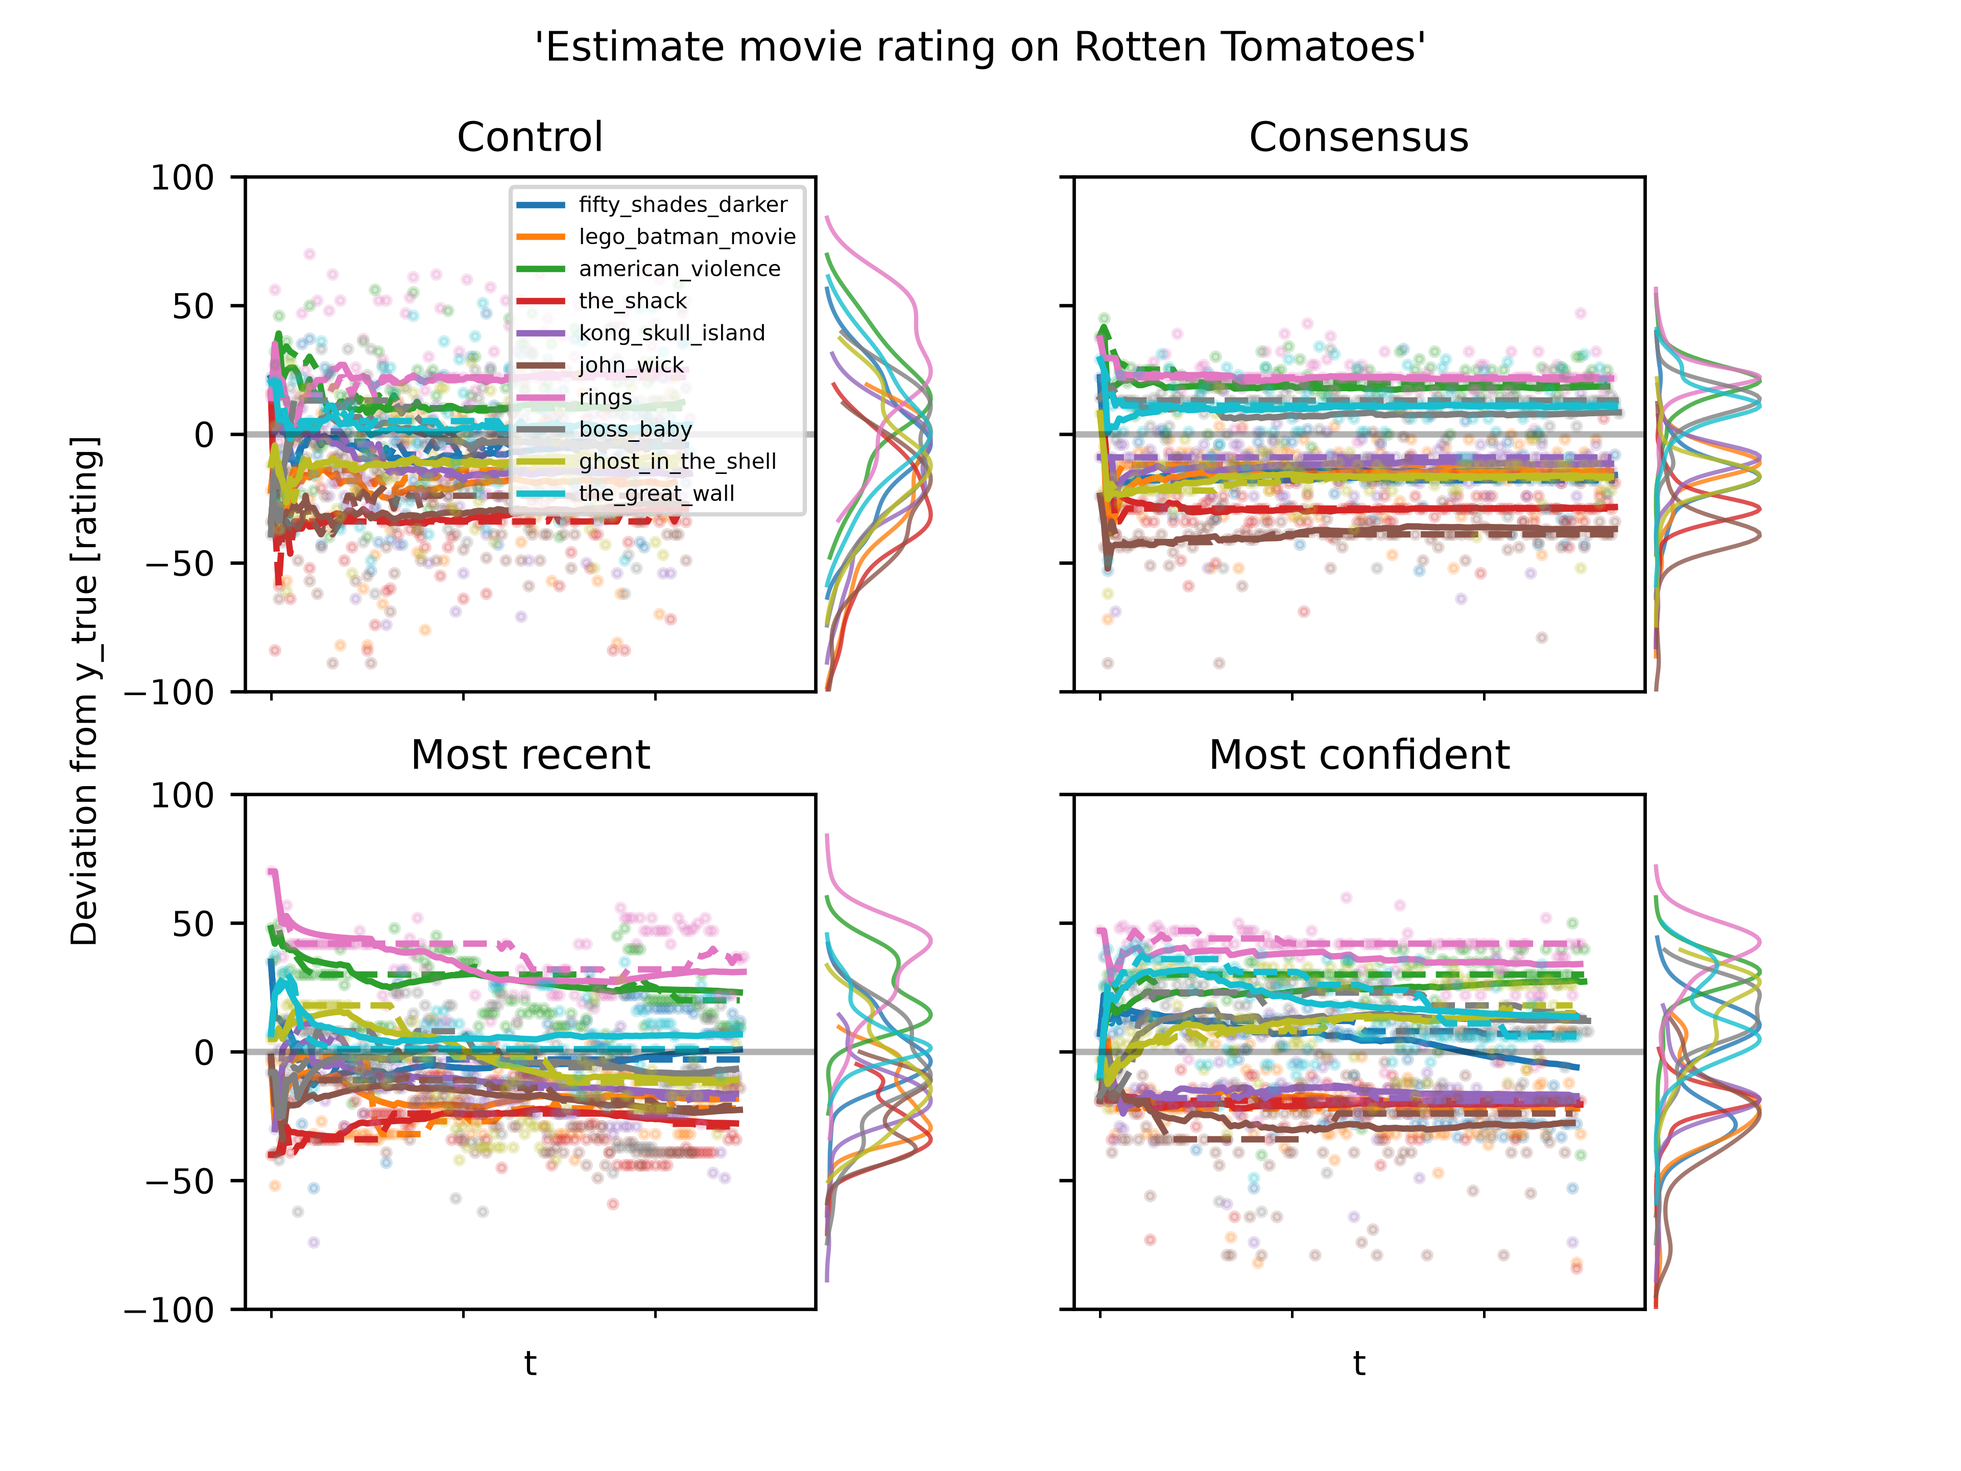
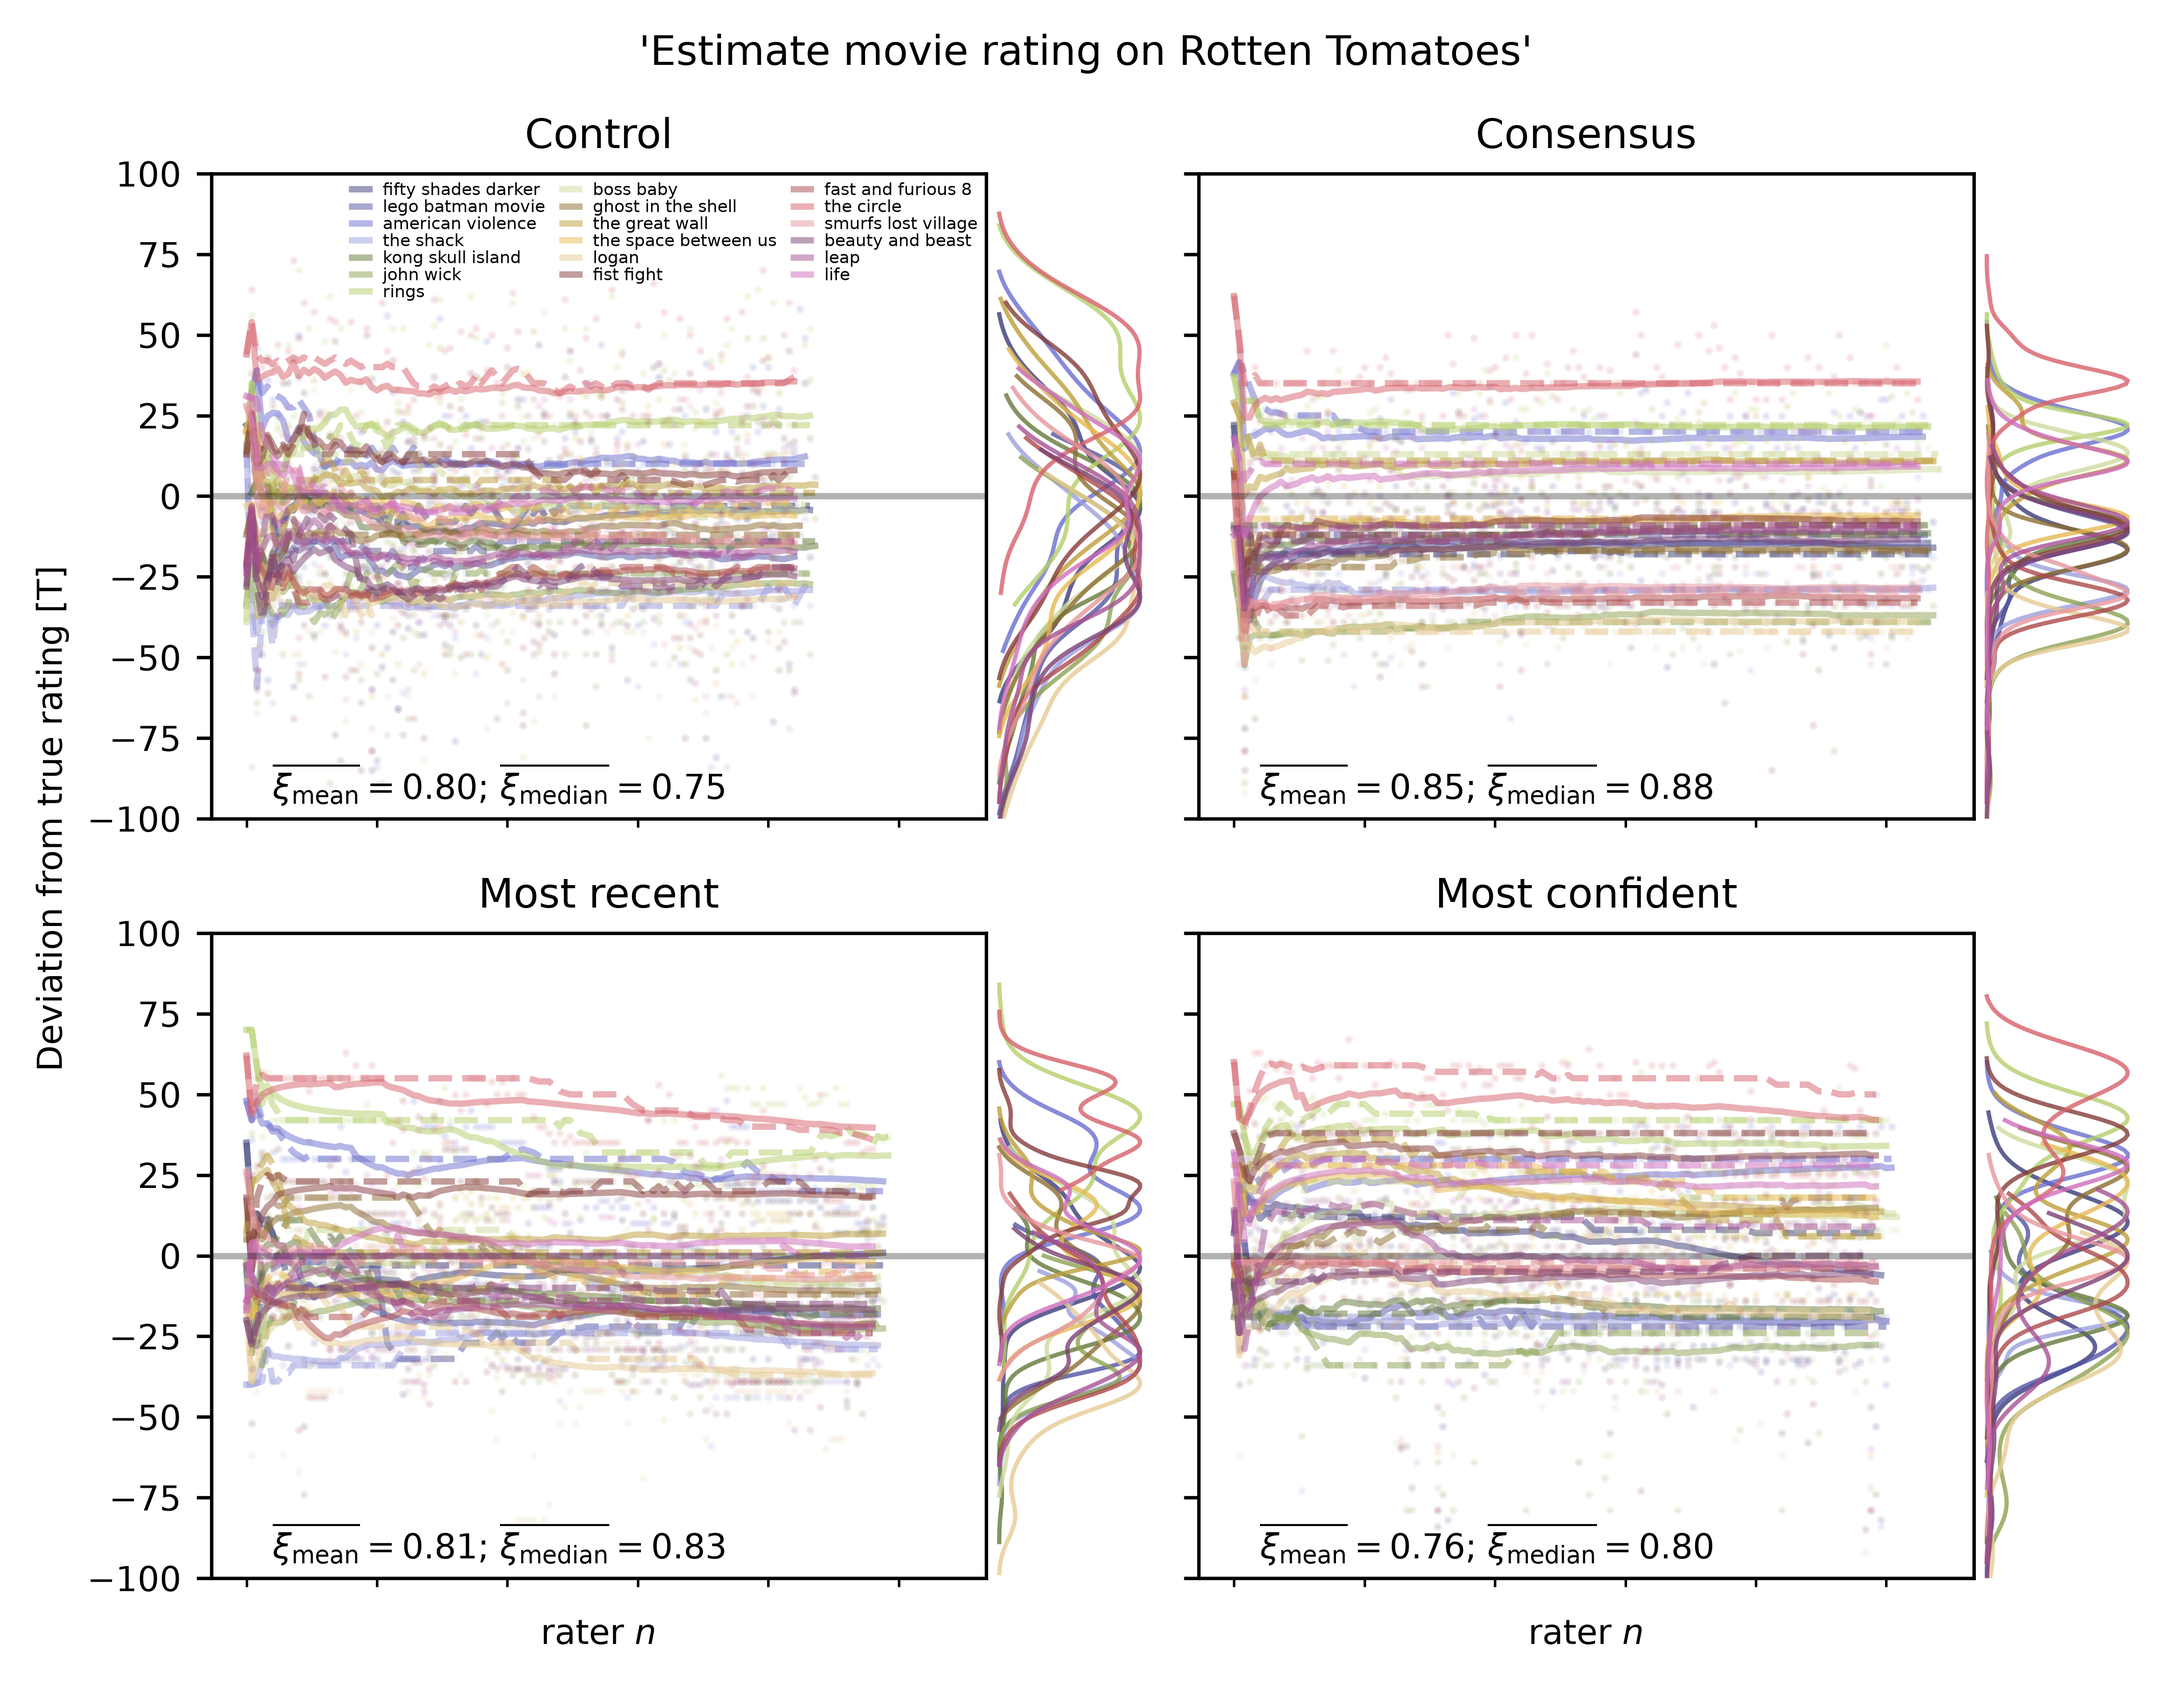
updated simoiu

Changed region(s): [[0.0, 0.0, 1.0, 0.9375], [0.0625, 0.875, 0.3438, 0.9688], [0.8125, 0.875, 0.8438, 0.9062]]

diff --git a/simoiu.py b/simoiu.py
@@ -64,23 +64,34 @@ def get_chain(task, cond):
     return chain 
 
 
-selected_tasks = [10140+l for l in range(20)][-7:-2] # age questions
-selected_tasks = [10740+l for l in range(20)]
-fig, axs = plt.subplots(2,2, sharex=True, sharey=True)
+# selected_tasks = [10140+l for l in range(20)][-7:-2] # age questions
+selected_tasks = [l for l in range(10740, 10760) if not l == 10752]
+fig, axs = plt.subplots(2,2, sharex=True, sharey=True, figsize=(18/2.54, 14/2.54))
+xis = []
 conds = ['Control', 'Consensus', 'Most recent','Most confident'] #answers.experimental_condition.unique()
 for ax, cond in zip(axs.flatten(), conds):
     n_peepsPerChainCond = n_peepsPerChain.loc[n_peepsPerChain["experimental_condition"]==cond]
-    cols = plt.get_cmap("tab10")
+    cols = plt.get_cmap("tab20b")
+    xis_med = []
+    xis_mean = []
     for ni, task in enumerate(selected_tasks):
         c = cols(ni)
         # taskname = tasks.loc[tasks.task_id==task]["prompt"].str.replace("How old is ", "").str.replace("?", "").iloc[0]
-        taskname = tasks.loc[tasks.task_id==task]["path_to_media"].str.replace("prediction_movie_rating/", "").str.replace(".mp4", "").iloc[0]
+        taskname = tasks.loc[tasks.task_id==task]["path_to_media"].str.replace("prediction_movie_rating/", "").str.replace(".mp4", "").str.replace("_", " ").iloc[0]
+
+        xi_mean = (abs(chain.answer.astype(float).mean()- chain.correct_answer.unique().astype(float))/chain.std_answer.unique())[0]
+        xis_mean.append(xi_mean)
+        xi_median = (abs(chain.answer.astype(float).median()- chain.correct_answer.unique().astype(float))/chain.std_answer.unique())[0]
+        xis_med.append(xi_median)
+        xis.append([cond, taskname, xi_mean, xi_median])
+
+        # taskname += fr" $\xi={xi:.1f}$" 
         chain = get_chain(task, cond)
-        chain["relanswer"].plot(ax=ax, label="_", color=c, alpha=0.2, lw=0, marker="o", markersize=2)
-        chain["rollMean"].plot(ax=ax, color=c, label=taskname)
-        chain["rollMedian"].plot(ax=ax, color=c, ls="--", label="_")
+        chain["relanswer"].plot(ax=ax, label="_", color=c, alpha=0.1, lw=0, marker="o", markersize=1)
+        chain["rollMean"].plot(ax=ax, color=c, label=taskname, alpha=0.5)
+        chain["rollMedian"].plot(ax=ax, color=c, ls="--", label="_", alpha=0.5)
         # --- right: histogram of language counts ---
-        y_grid = np.linspace(min(chain["relanswer"])*1.2, max(chain["relanswer"])*1.2, 100)
+        y_grid = np.linspace(min(chain["relanswer"].dropna())*1.2, max(chain["relanswer"].dropna())*1.2, 100)
         kde = gaussian_kde(chain["relanswer"].dropna())
         density = kde(y_grid)
         divider = make_axes_locatable(ax)
@@ -89,25 +100,39 @@ for ax, cond in zip(axs.flatten(), conds):
         hax.plot(density, y_grid, color=c, alpha=0.8, lw=1)
         hax.axis("off")
     ax.set_title(cond)
+    ax.text(5,-94, fr"${r'\overline{\xi_{\rm mean}}'}={np.mean(xis_mean):.2f}$; ${r'\overline{\xi_{\rm median}}'}={np.mean(xis_med):.2f}$")
     ax.axhline(0, color="k", alpha=0.3)
-    ax.set_ylim(-15,15)
+    ax.set_ylim(-100,100)
     if ax in axs[1,:]:
-        ax.set_xlabel("t")
+        ax.set_xlabel(f"rater $n$")
     else:
         ax.set_xticks([])
-axs[0,0].legend(fontsize=5)
-axs[0,0].set_ylabel("Deviation from y_true [yrs]", y=0)
-fig.suptitle("'how-old-is-X' questions")
+axs[0,0].legend(fontsize=4, ncol=3, frameon=False, handlelength=1,columnspacing=1, labelspacing=0, borderpad=0)
+axs[0,0].set_ylabel("Deviation from true rating [T]", y=0)
+# fig.suptitle("'how-old-is-X' questions")
+fig.suptitle("'Estimate movie rating on Rotten Tomatoes'")
+fig.tight_layout()
+plt.savefig("figs/rotten_tomatoes_ratings.png", dpi=600)
 
+xis_df = pd.DataFrame(xis, columns=["condition", "movie", "xi_mean", "xi_median"])
 # %%
-
+fig, ax = plt.subplots(1,1,figsize=(8/2.54, 8/2.54))
+xis_df_melted = xis_df.melt(id_vars=["condition", "movie"], value_name="xi", var_name="metric").replace({"xi_mean":"mean", "xi_median":"median"})
+sns.barplot(xis_df_melted, hue="condition", x="metric", y="xi", saturation=0.2)
+sns.stripplot(xis_df_melted, hue="condition", x="metric", y="xi", dodge=True, legend=False, size=2)
+plt.xlabel(None)
+plt.legend(title="", frameon=False, ncol=1)
+plt.ylabel(r"relative error $\xi$")
+plt.title("Collective performance\n'Estimate movie rating on Rotten Tomatoes'")
+fig.tight_layout()
 # %%
-selected_tasks = [10140+l for l in range(20)]
+selected_tasks = [10740+l for l in range(10)]
 results = []
 for task in selected_tasks:
     cond = "Control"
     chainControl = get_chain(task, cond)       
-    taskname = tasks.loc[tasks.task_id==task]["prompt"].str.replace("How old is ", "").str.replace("?", "").iloc[0]
+    # taskname = tasks.loc[tasks.task_id==task]["prompt"].str.replace("How old is ", "").str.replace("?", "").iloc[0]
+    taskname = tasks.loc[tasks.task_id==task]["path_to_media"].str.replace("prediction_movie_rating/", "").str.replace(".mp4", "").str.replace("_", " ").iloc[0]
     mu_p = np.mean(chainControl["relanswer"])
     sigma_p = np.std(chainControl["relanswer"], ddof=1)
 
